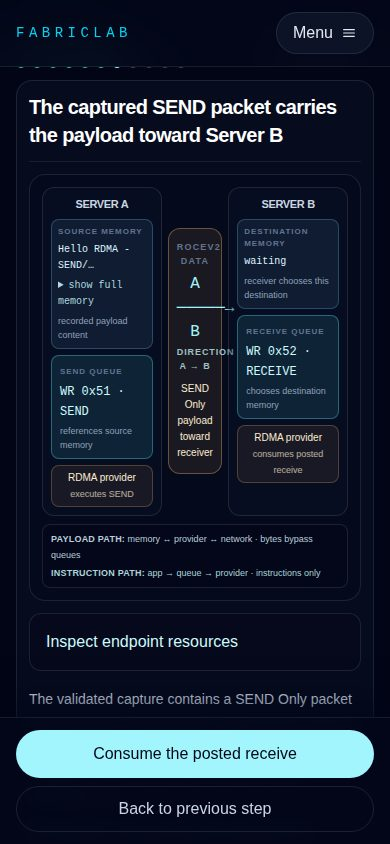
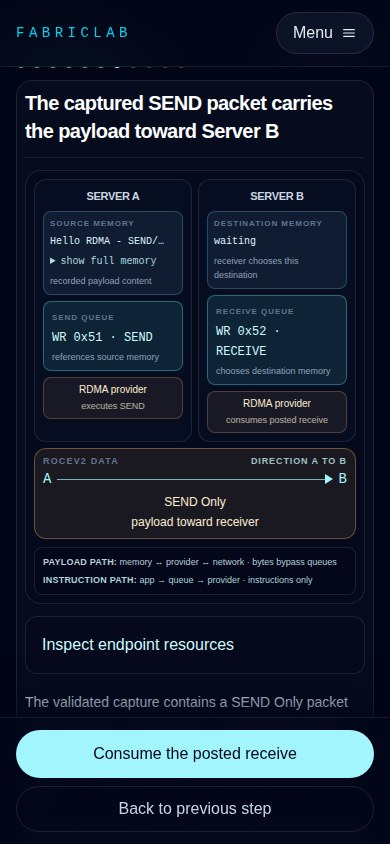
Close out RDMA mobile readability corrections
Keep mobile transfer direction legible without changing the accepted
eight-lesson structure, and scope completion chronology to the recorded
laboratory behavior.

Generated with [Devin](https://devin.ai)

diff --git a/apps/web/components/practical/curriculum/rdmaDiagrams.tsx b/apps/web/components/practical/curriculum/rdmaDiagrams.tsx
@@ -496,6 +496,31 @@ function FocusEndpoint({ endpoint }: { endpoint: FocusEndpointModel }) {
   );
 }
 
+function TransferArrowHead({ pointing }: { pointing: "left" | "right" }) {
+  const points = pointing === "right" ? "M0 0 L8 5 L0 10 Z" : "M8 0 L0 5 L8 10 Z";
+  return (
+    <svg className="h-2.5 w-2 shrink-0" viewBox="0 0 8 10" aria-hidden="true" focusable="false">
+      <path d={points} fill="currentColor" />
+    </svg>
+  );
+}
+
+function FocusTransferArrow({ direction }: { direction: "a-to-b" | "b-to-a" | "both" | "none" }) {
+  const left = direction === "b-to-a" || direction === "both";
+  const right = direction === "a-to-b" || direction === "both";
+  return (
+    <div className="mt-1 flex items-center gap-1.5 font-mono text-sm leading-none text-cyan-200" data-testid="focus-transfer-arrow" aria-hidden="true">
+      <span>A</span>
+      <span className="flex min-w-0 flex-1 items-center">
+        {left ? <TransferArrowHead pointing="left" /> : null}
+        <span className="h-px min-w-4 flex-1 bg-cyan-200/70"></span>
+        {right ? <TransferArrowHead pointing="right" /> : null}
+      </span>
+      <span>B</span>
+    </div>
+  );
+}
+
 export function ExperimentFocusDiagram({
   a,
   b,
@@ -508,17 +533,18 @@ export function ExperimentFocusDiagram({
   caption?: ReactNode;
 }) {
   const direction = transfer.direction || "none";
-  const arrow = direction === "a-to-b" ? "A ─────→ B" : direction === "b-to-a" ? "A ←───── B" : direction === "both" ? "A ⇄ B" : "A ───── B";
   const active = Boolean(transfer.visible);
   return (
-    <figure className="rounded-2xl border border-white/10 bg-slate-950/35 p-3" data-testid="experiment-focus-diagram">
-      <div className="grid grid-cols-[minmax(0,1fr)_3.4rem_minmax(0,1fr)] gap-1.5 sm:gap-2 lg:grid-cols-[minmax(0,1fr)_7.5rem_minmax(0,1fr)] lg:items-center">
+    <figure className="rounded-2xl border border-white/10 bg-slate-950/35 p-2 sm:p-3" data-testid="experiment-focus-diagram">
+      <div className="grid grid-cols-2 gap-1.5 sm:gap-2 lg:grid-cols-[minmax(0,1fr)_7.5rem_minmax(0,1fr)] lg:items-center">
         <FocusEndpoint endpoint={a} />
-        <div className={cx("self-center rounded-xl border px-2 py-3 text-center", active ? transfer.kind === "control" ? "border-violet-300/35 bg-violet-300/9" : "border-orange-300/35 bg-orange-300/9" : "border-white/10 bg-slate-950/35")} data-testid="focus-transfer" data-direction={direction} data-kind={transfer.kind || "none"}>
-          <div className="text-[9px] font-semibold uppercase tracking-[0.13em] text-slate-500">{transfer.kind === "control" ? "TCP control" : "RoCEv2 data"}</div>
-          <div className="mt-1 font-mono text-cyan-200" aria-hidden="true">{arrow}</div>
-          {direction !== "none" ? <div className="mt-0.5 text-[9px] font-semibold uppercase tracking-[0.1em] text-cyan-100/75">direction {direction === "a-to-b" ? "A → B" : direction === "b-to-a" ? "B → A" : "both ways"}</div> : null}
-          {active ? <div className="mt-2 break-words text-[10px] leading-4 text-orange-100 sm:text-xs sm:leading-5">{transfer.label}</div> : <div className="mt-2 text-[10px] text-slate-600">no packet at this point</div>}
+        <div className={cx("order-3 col-span-2 self-center rounded-xl border px-2 py-1.5 text-center lg:order-none lg:col-span-1 lg:py-3", active ? transfer.kind === "control" ? "border-violet-300/35 bg-violet-300/9" : "border-orange-300/35 bg-orange-300/9" : "border-white/10 bg-slate-950/35")} data-testid="focus-transfer" data-direction={direction} data-kind={transfer.kind || "none"}>
+          <div className="flex items-center justify-between gap-2 lg:block">
+            <div className="text-[9px] font-semibold uppercase tracking-[0.13em] text-slate-500">{transfer.kind === "control" ? "TCP control" : "RoCEv2 data"}</div>
+            {direction !== "none" ? <div className="text-[9px] font-semibold uppercase tracking-[0.1em] text-cyan-100/75 lg:mt-0.5">direction {direction === "a-to-b" ? "A to B" : direction === "b-to-a" ? "B to A" : "both ways"}</div> : null}
+          </div>
+          <FocusTransferArrow direction={direction} />
+          {active ? <div className="mx-auto mt-1.5 max-w-md break-words text-xs leading-5 text-orange-100" data-testid="focus-transfer-label">{transfer.label}</div> : <div className="mt-2 text-[10px] text-slate-600">no packet at this point</div>}
         </div>
         <FocusEndpoint endpoint={b} />
       </div>

diff --git a/apps/web/tests/rdma.curriculum.smoke.spec.ts b/apps/web/tests/rdma.curriculum.smoke.spec.ts
@@ -227,6 +227,8 @@ test.describe("RDMA first-principles curriculum", () => {
     await expect(page.getByTestId("lesson4-send-queue-hosta")).toBeVisible();
     await expect(page.getByTestId("lesson4-send-queue-hosta")).toContainText(/empty in this illustration/i);
     await expect(page.getByTestId("lesson4-illustrative-work-request")).toContainText(/not submitted/i);
+    await expect(page.getByTestId("lesson-narrative")).toContainText(/Our laboratory prepares both Reliable Connected endpoints before submitting the SEND operation/i);
+    await expect(page.getByTestId("lesson-narrative")).not.toContainText(/every kind of Work Request|universally requires the QP/i);
 
     await clickLessonAction(page);
     await expect(page.getByTestId("lesson4-qp-boundary")).toBeVisible();
@@ -261,6 +263,8 @@ test.describe("RDMA first-principles curriculum", () => {
     await expect(page.getByTestId("laboratory-orientation")).toContainText(/Python program · sender/i);
     await expect(page.getByTestId("laboratory-orientation")).toContainText(/TCP control network/i);
     await expect(page.getByTestId("laboratory-orientation")).toContainText(/recorded execution/i);
+    await expect(page.getByTestId("laboratory-orientation")).toContainText(/independent local outcome sequences, not one global ordering/i);
+    await expect(page.getByTestId("laboratory-orientation")).toContainText(/receiver-local memory evidence; the sender completion is separate/i);
     await clickLessonAction(page);
     await page.getByTestId("missing-receive-exercise").getByRole("button", { name: /packet already waiting/i }).click();
     await expect(page.getByTestId("missing-receive-feedback")).toContainText(/Not correct/i);
@@ -494,7 +498,32 @@ test.describe("RDMA first-principles curriculum", () => {
 
   test("mobile SEND WRITE and READ states show the active two-host observation first", async ({ page }) => {
     const tracker = trackErrors(page);
-    test.setTimeout(90_000);
+    test.setTimeout(150_000);
+    await page.addInitScript(() => window.localStorage.clear());
+
+    for (const width of [320, 360, 390, 430]) {
+      await page.setViewportSize({ width, height: 844 });
+      await page.goto("/practical/rdma?lesson=write", { waitUntil: "domcontentloaded" });
+      await advanceStates(page, 5);
+      await expect(page.getByRole("heading", { name: /captured WRITE packet/i })).toBeVisible();
+      const endpointA = await page.getByTestId("focus-endpoint-hosta").boundingBox();
+      const endpointB = await page.getByTestId("focus-endpoint-hostb").boundingBox();
+      const transfer = await page.getByTestId("focus-transfer").boundingBox();
+      const arrow = await page.getByTestId("focus-transfer-arrow").boundingBox();
+      expect(endpointA).not.toBeNull();
+      expect(endpointB).not.toBeNull();
+      expect(transfer).not.toBeNull();
+      expect(arrow).not.toBeNull();
+      expect(transfer!.y).toBeGreaterThanOrEqual(Math.max(endpointA!.y + endpointA!.height, endpointB!.y + endpointB!.height) - 1);
+      expect(transfer!.width).toBeGreaterThan(Math.max(endpointA!.width, endpointB!.width));
+      expect(arrow!.height).toBeLessThanOrEqual(24);
+      expect(arrow!.width).toBeGreaterThan(100);
+      const labelMetrics = await page.getByTestId("focus-transfer-label").evaluate((element) => ({ clientWidth: element.clientWidth, scrollWidth: element.scrollWidth }));
+      expect(labelMetrics.scrollWidth).toBeLessThanOrEqual(labelMetrics.clientWidth + 1);
+      const overflow = await page.evaluate(() => document.documentElement.scrollWidth - document.documentElement.clientWidth);
+      expect(overflow).toBe(0);
+    }
+
     await page.setViewportSize({ width: 390, height: 844 });
     const scenarios = [
       { lesson: "send-receive", advances: 6, heading: /captured SEND packet/i, direction: "a-to-b", kind: "request" },

diff --git a/apps/web/components/practical/curriculum/Lesson4Queues.tsx b/apps/web/components/practical/curriculum/Lesson4Queues.tsx
@@ -247,7 +247,7 @@ export function Lesson4Queues({ onComplete }: { onComplete: () => void }) {
       body: (
         <>
           <p>The application does not shout instructions into the network. Once an endpoint is ready, it submits a Work Request by posting it to the appropriate queue. Send-style operations are posted to the <strong className="text-slate-100">Send Queue</strong>.</p>
-          <p>Constructing an instruction and posting it are different actions. Our HELLO instruction remains constructed in this illustration; the real program cannot submit it until the endpoint resources and peer state exist. This is a conceptual preview of where it will eventually go, not the chronological SEND execution.</p>
+          <p>Constructing an instruction and posting it are different actions. Our laboratory prepares both Reliable Connected endpoints before submitting the SEND operation. For now, our illustrative instruction remains unposted. This is a conceptual preview of where it will eventually go, not the chronological SEND execution.</p>
         </>
       ),
       visual: queuesVisual(2),

diff --git a/apps/web/components/practical/curriculum/Lesson5SendReceive.tsx b/apps/web/components/practical/curriculum/Lesson5SendReceive.tsx
@@ -29,8 +29,8 @@ function LaboratoryOrientation() {
     ["6", "Transition each QP through INIT, RTR and RTS", "endpoint readiness before real work"],
     ["7", "Receiver posts its Receive Work Request", "destination memory is chosen locally"],
     ["8", "Sender writes the payload, constructs and posts the SEND Work Request", "the first real data operation"],
-    ["9", "Each application polls its own completion", "local outcome observation"],
-    ["10", "Receiver reads and verifies its memory", "application evidence after completion"],
+    ["9", "Each application polls its own completion when its local operation finishes", "independent local outcome sequences, not one global ordering"],
+    ["10", "The receiver reads and verifies memory after observing its receive completion", "receiver-local memory evidence; the sender completion is separate"],
   ] as const;
   return (
     <div className="grid gap-4 xl:grid-cols-[minmax(0,0.85fr)_minmax(0,1.15fr)]" data-testid="laboratory-orientation">

diff --git a/apps/web/components/practical/curriculum/GuidedLesson.tsx b/apps/web/components/practical/curriculum/GuidedLesson.tsx
@@ -225,7 +225,7 @@ export function GuidedLesson({
         </details>
       </div>
 
-      <article ref={articleRef} className="scroll-mt-20 guided-lesson-article rounded-2xl border border-white/10 bg-slate-900/35 p-3 shadow-[0_20px_70px_rgba(2,6,23,0.22)] max-sm:pb-24 sm:p-6 lg:p-7">
+      <article ref={articleRef} className="scroll-mt-20 guided-lesson-article rounded-2xl border border-white/10 bg-slate-900/35 p-2 shadow-[0_20px_70px_rgba(2,6,23,0.22)] max-sm:pb-24 sm:p-6 lg:p-7">
         <div className="border-b border-white/8 pb-3 sm:pb-4">
           <h2 ref={headingRef} tabIndex={-1} className="max-w-4xl text-xl font-semibold tracking-tight text-white outline-none sm:text-3xl">{step.title}</h2>
         </div>
